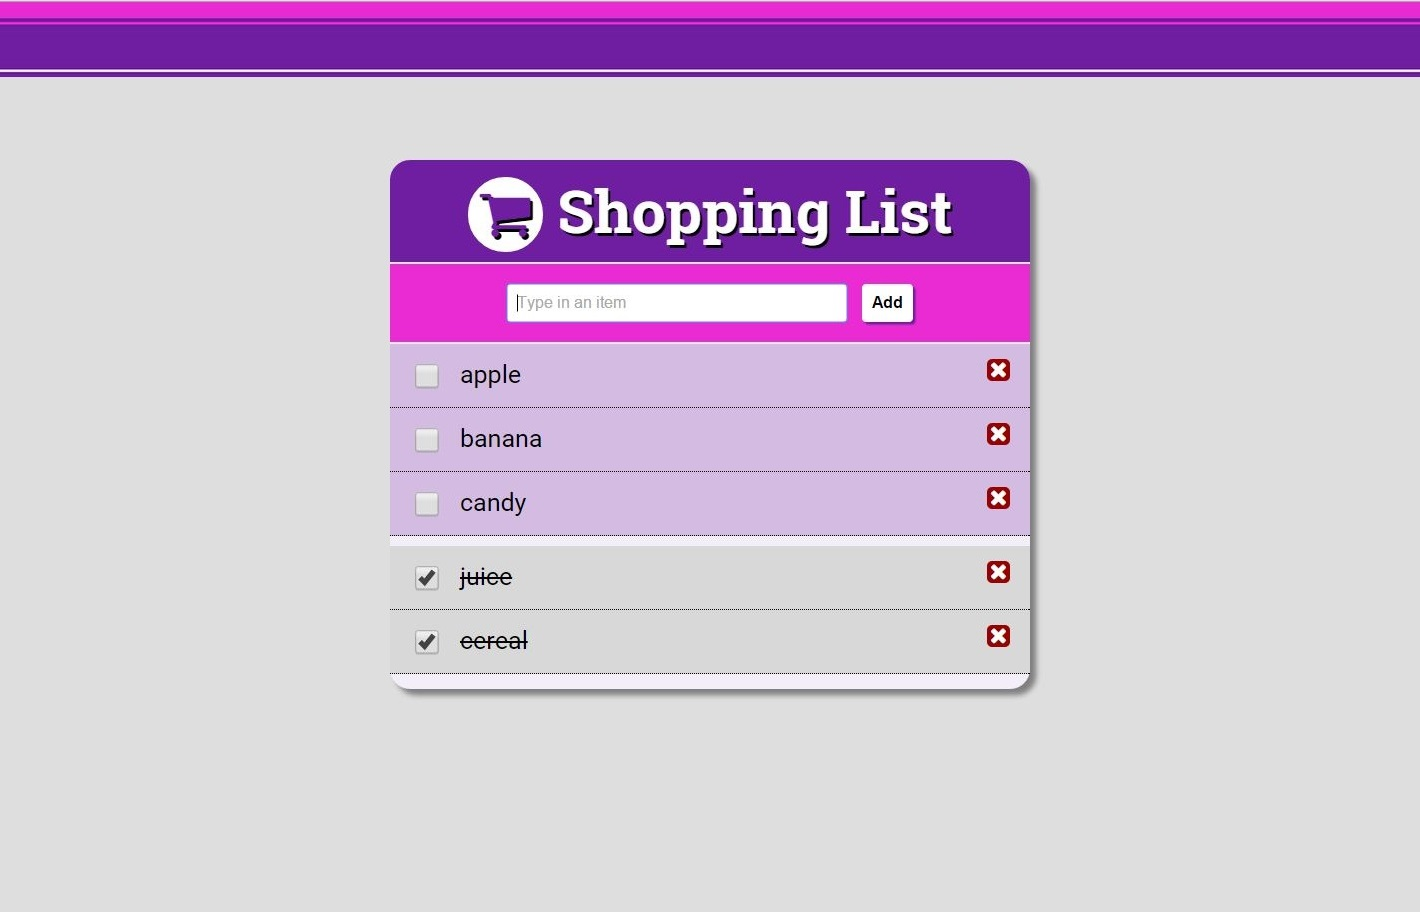
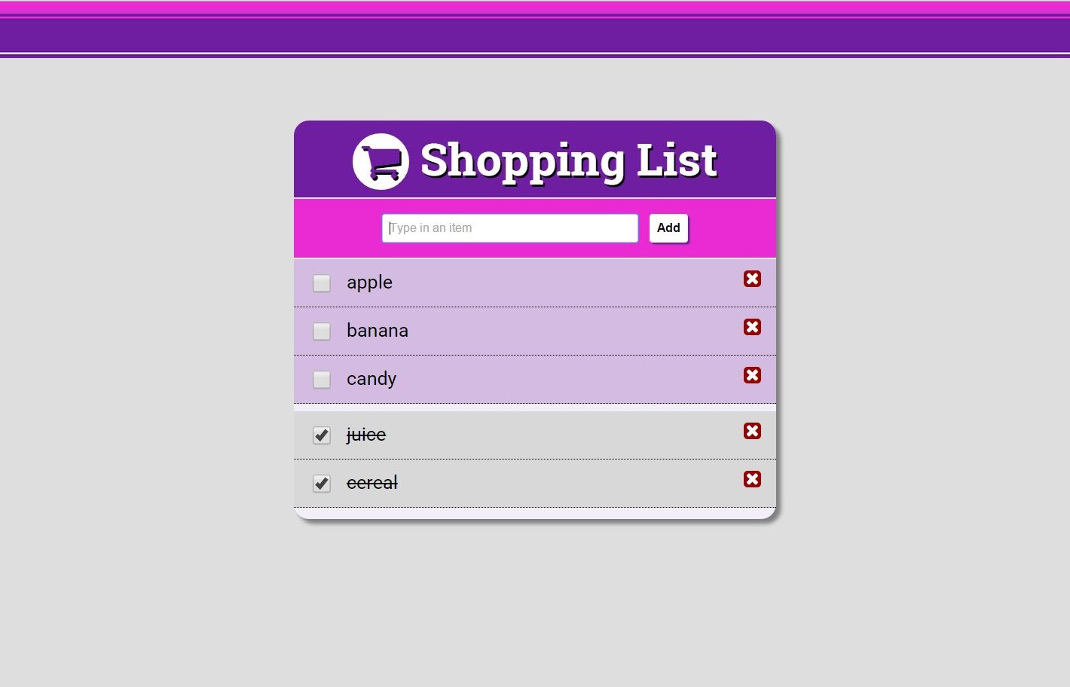
Resize images

diff --git a/css/style.css b/css/style.css
@@ -121,7 +121,7 @@ h1, h3, h4, h5 {
 	width: 100%;
 	height: 100%;
 	text-align: center;
-	background: rgba(9,13,24,0.95);
+	background: rgba(9,13,24,0.925);
 }
 
 /* About Section */
